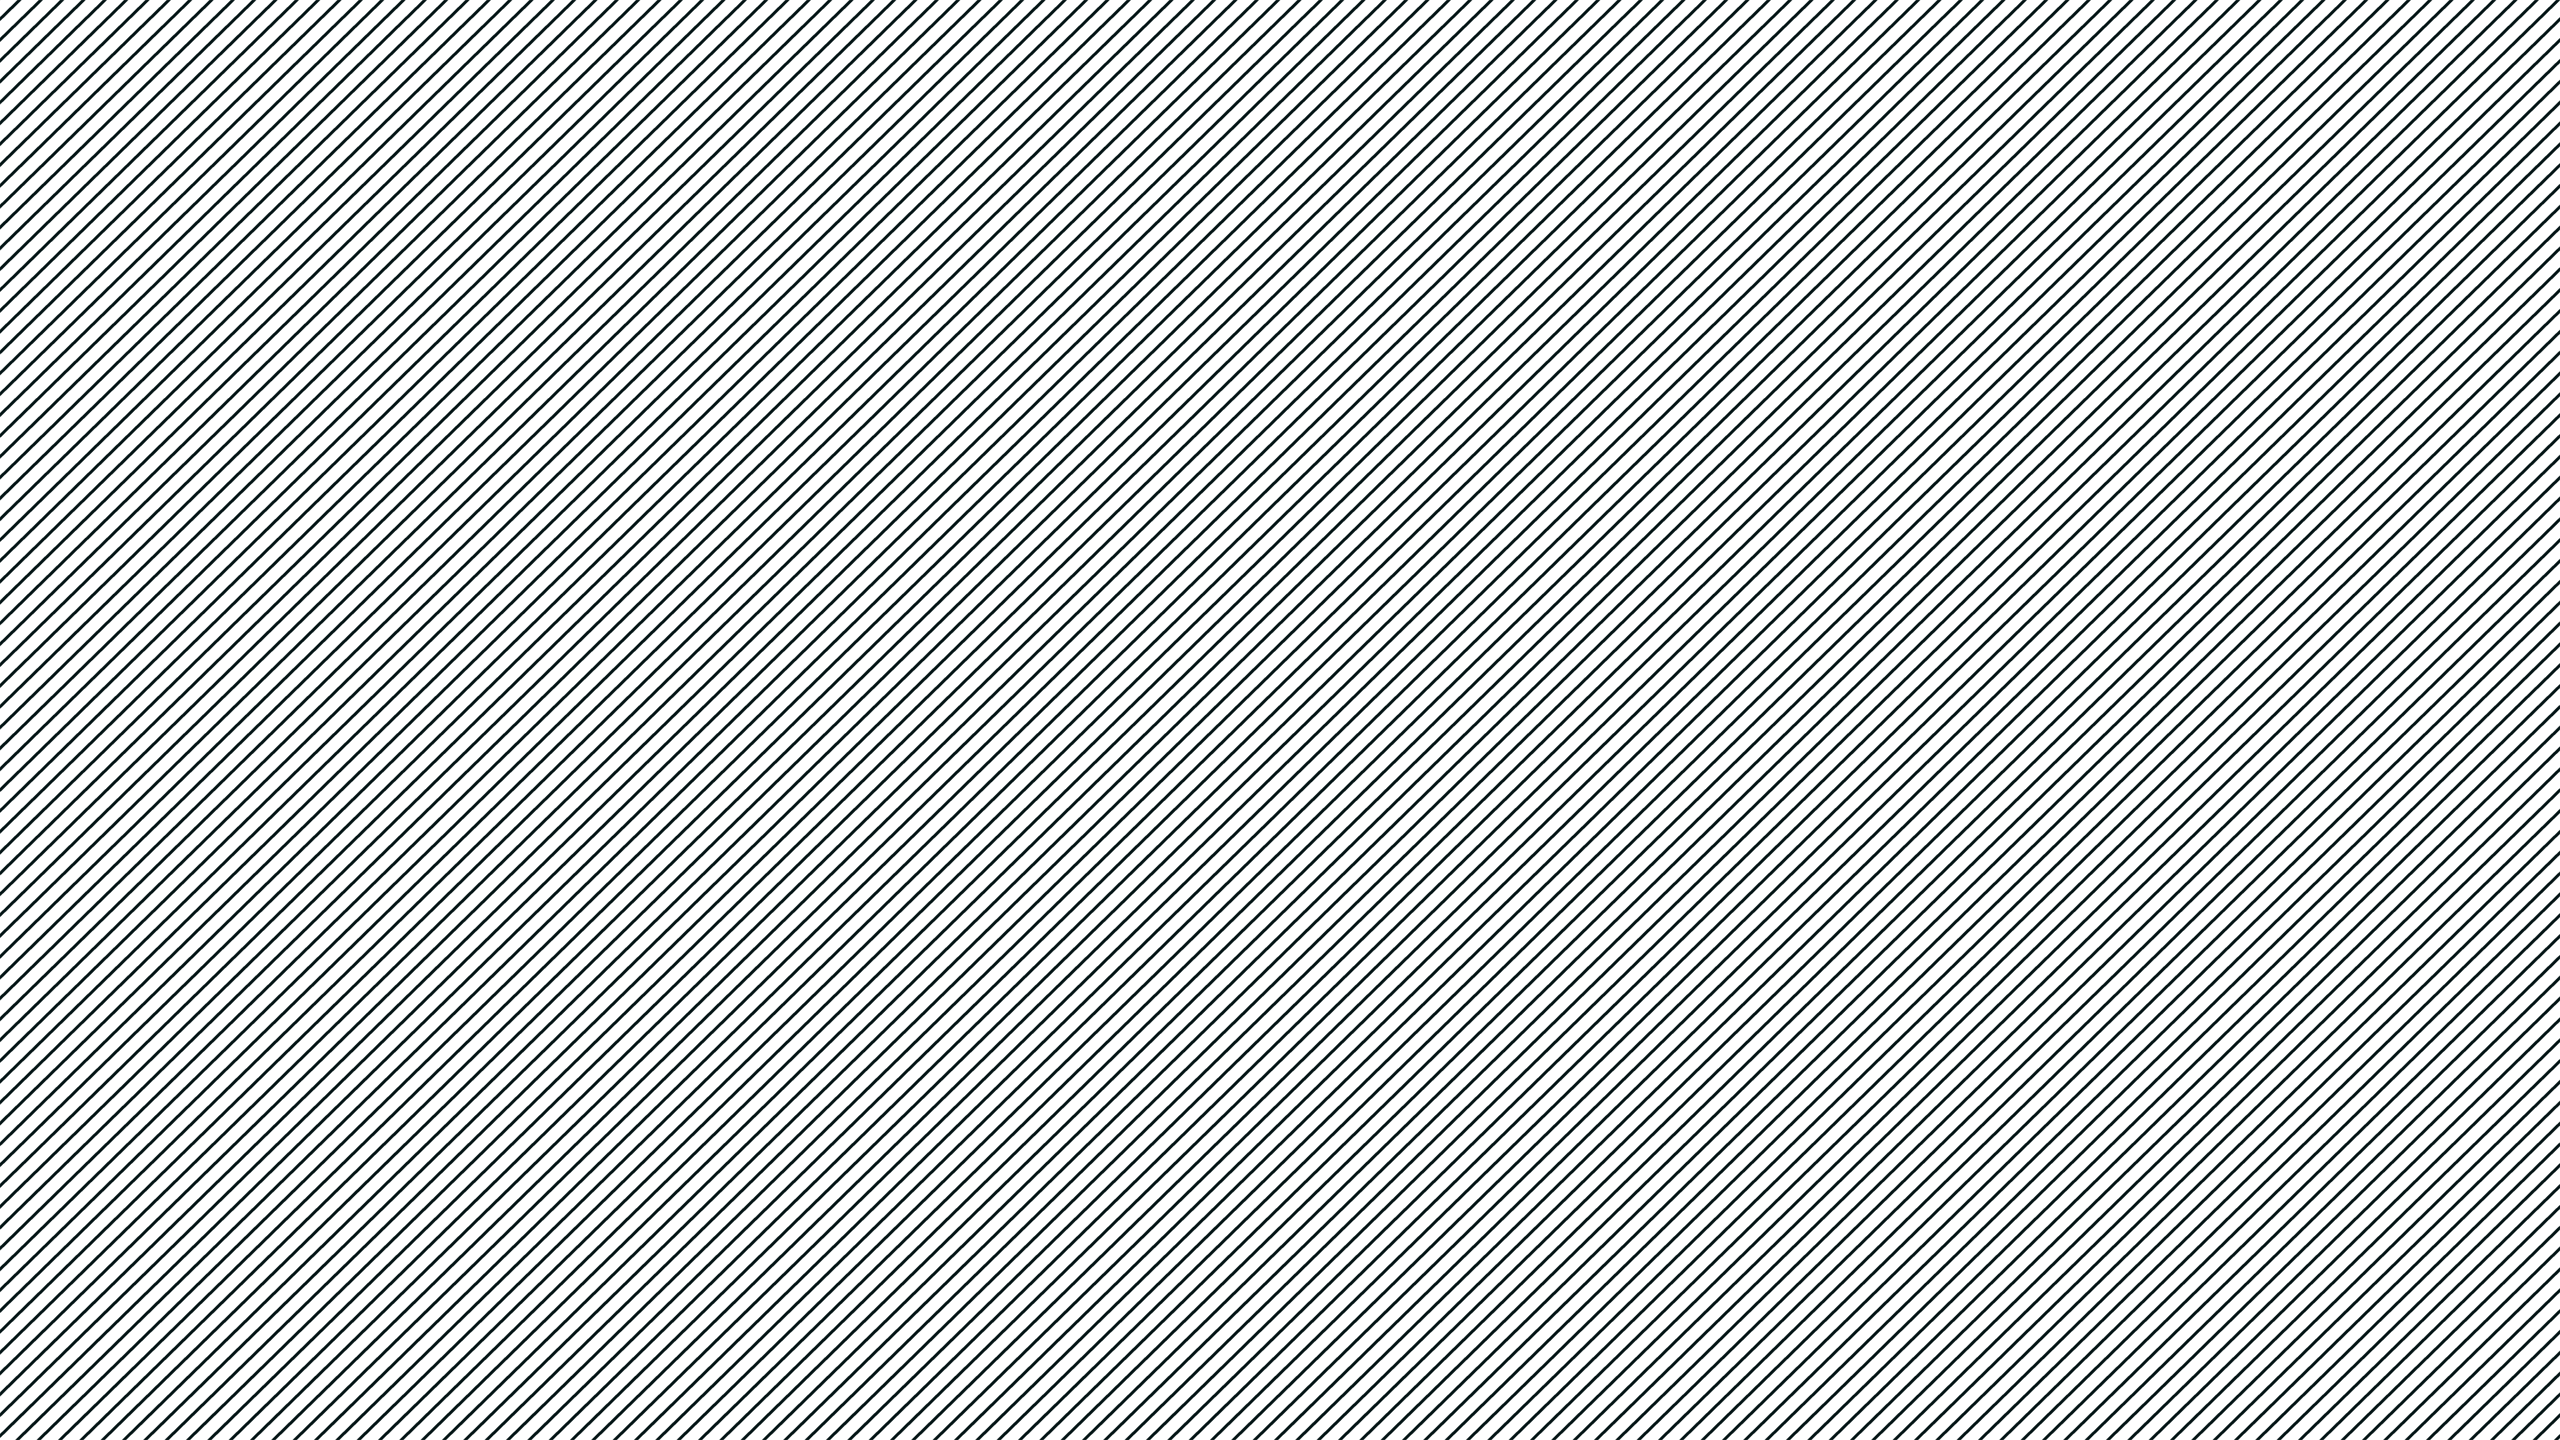
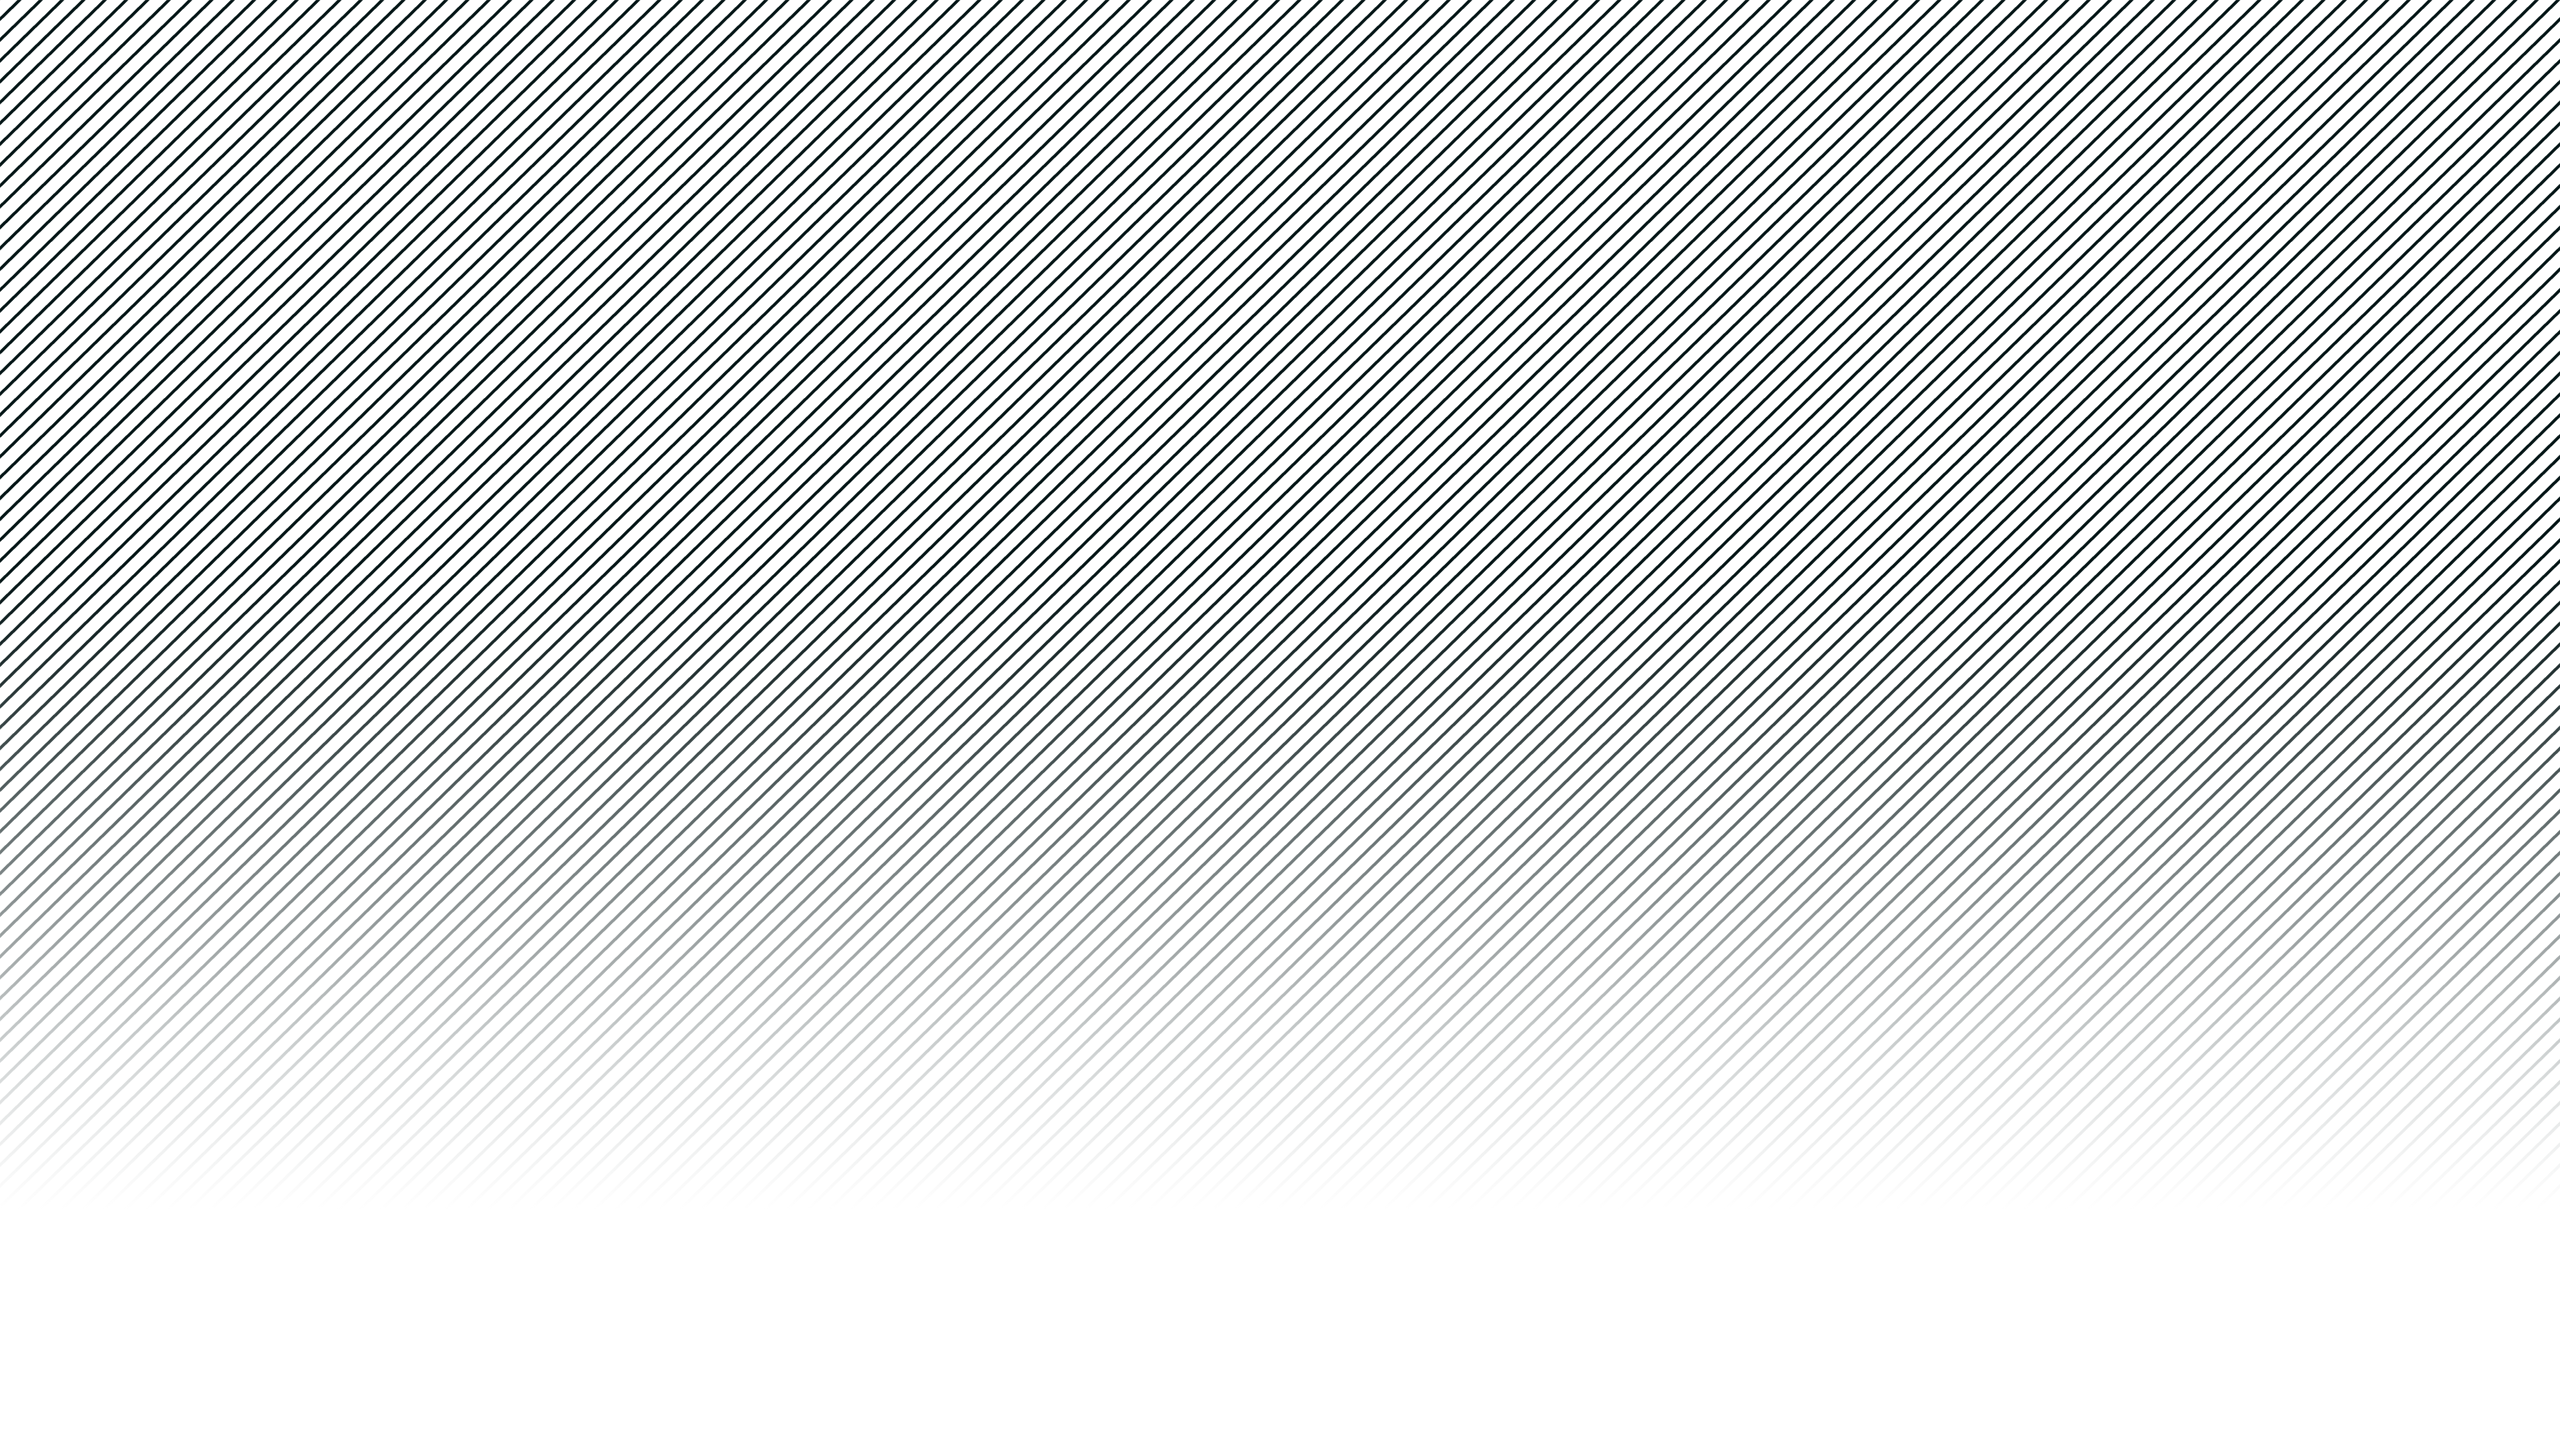
hero updates

Changed region(s): [[0.0, 0.4688, 1.0, 1.0]]

diff --git a/src/views/Home/components/FullPage.js b/src/views/Home/components/FullPage.js
@@ -1,0 +1,61 @@
+/* eslint-disable import/no-extraneous-dependencies */
+import React from 'react'
+import ReactDOM from 'react-dom'
+import 'fullpage.js/vendors/scrolloverflow' // Optional. When using scrollOverflow:true
+import ReactFullpage from '@fullpage/react-fullpage'
+import lines from '../../../assets/img/bg-lines.png'
+import SkyHero from './SkyHero'
+
+import './fullpage.style.css'
+
+class FullpageWrapper extends React.Component {
+	onLeave(origin, destination, direction) {
+		console.log('Leaving section ' + origin.index)
+	}
+	afterLoad(origin, destination, direction) {
+		console.log('After load: ' + destination.index)
+	}
+	render() {
+		return (
+			<ReactFullpage
+				scrollOverflow={true}
+        navigation={true}
+				onLeave={this.onLeave.bind(this)}
+				afterLoad={this.afterLoad.bind(this)}
+				render={({ state, fullpageApi }) => {
+					return (
+						<div id="fullpage-wrapper">
+
+							<div
+								className="section"
+								style={{
+									background: `linear-gradient(to top, transparent, #1a003d), url(${lines})`,
+									backgroundPosition: `center`,
+									backgroundRepeat: `no-repeat`,
+									backgroundAttachment: `fixed`,
+                  zIndex: `-99999`
+								}}
+							>
+								<h6>Diversified Exposure</h6>
+                                <SkyHero />
+							</div>
+
+							<div className="section">
+                <h6>Passive Yield</h6>
+							</div>
+
+							<div className="section">
+								<h3>Section 3</h3>
+								<button onClick={() => fullpageApi.moveTo(1, 0)}>
+									Move top
+								</button>
+							</div>
+						</div>
+					)
+				}}
+			/>
+		)
+	}
+}
+
+export default FullpageWrapper

diff --git a/src/views/Home/components/fullpage.style.css b/src/views/Home/components/fullpage.style.css
@@ -1,0 +1,52 @@
+body {
+  font-family: arial, helvetica;
+}
+
+#fp-nav ul li a span, .fp-slidesNav ul li a span {
+  background: #ffffff;
+}
+
+h6 {
+  font-family: 'Noto Sans', sans-serif;
+	font-size: 10rem !important;
+	line-height: 6.7rem;
+	letter-spacing: -0.2rem;
+	text-align: center;
+	font-weight: 900 !important;
+	letter-spacing: 2px;
+	text-align: center;
+	color: #f35626;
+	background-image: -webkit-linear-gradient(92deg, #f35626, #feab3a);
+	background-clip: text;
+	-webkit-text-fill-color: transparent;
+	animation: hue 10s infinite linear;
+}
+
+@keyframes hue {
+  from {
+    -webkit-filter: hue-rotate(0deg);
+  }
+  to {
+    -webkit-filter: hue-rotate(-360deg);
+  }
+}
+
+#section1 {
+  color: #fff;
+}
+
+.fp-section {
+  text-align: center;
+}
+
+button {
+  padding: 0.93em 1.87em;
+  background: #35495e;
+  border-radius: 5px;
+  border-color: transparent;
+  display: block;
+  color: #fff;
+  margin: 0 auto;
+  cursor: pointer;
+  font-size: 0.85em;
+}

diff --git a/src/views/Home/Home.tsx b/src/views/Home/Home.tsx
@@ -1,17 +1,11 @@
 import React from 'react'
-import styled from 'styled-components'
-import pollyBanner from '../../assets/img/polly.svg'
 import Page from '../../components/Page'
-import PageHeader from '../../components/PageHeader'
-import Spacer from '../../components/Spacer'
-import Hero from './components/Hero'
-import HeroText from './components/HeroText'
+import FullPage from './components/FullPage'
 
 const Home: React.FC = () => {
 	return (
 		<Page>
-			<HeroText />
-			<Hero />
+			<FullPage />
 		</Page>
 	)
 }

diff --git a/src/views/Home/components/SkyHero.tsx b/src/views/Home/components/SkyHero.tsx
@@ -26,9 +26,9 @@ class Hero extends Component {
 						16: 'https://s3.amazonaws.com/token-icons/0xba100000625a3754423978a60c9317c58a424e3d.png',
 					}}
 					how={
-						62
+						124
 					} /* Pass the number of images Sky will render chosing randomly */
-					time={120} /* time of animation */
+					time={240} /* time of animation */
 					size={'50px'} /* size of the rendered images */
 				/>
 		)

diff --git a/src/components/TopBar/TopBar.tsx b/src/components/TopBar/TopBar.tsx
@@ -36,7 +36,15 @@ const StyledLogoWrapper = styled.div`
 	}
 `
 
-const StyledTopBar = styled.div``
+const StyledTopBar = styled.div`
+overflow: hidden;
+position: fixed;
+top: 0;
+width: 100%;
+z-index: 1 !important;
+background: linear-gradient(
+    to bottom, #1a053d 50%, transparent);
+`
 
 const StyledTopBarInner = styled.div`
 	align-items: center;

diff --git a/src/components/PageHeader/PageHeader.tsx b/src/components/PageHeader/PageHeader.tsx
@@ -56,6 +56,7 @@ const StyledPageHeader = styled.div`
 	flex-direction: column;
 	padding-bottom: ${(props) => props.theme.spacing[6]}px;
 	margin: 0 auto;
+	margin-top: 72px;
 `
 
 const StyledIcon = styled.div`

diff --git a/src/components/Footer/Footer.tsx b/src/components/Footer/Footer.tsx
@@ -15,6 +15,7 @@ const StyledFooter = styled.footer`
 	align-items: center;
 	display: flex;
 	justify-content: center;
+	margin-top: 72px;
 `
 const StyledFooterInner = styled.div`
 	align-items: center;
